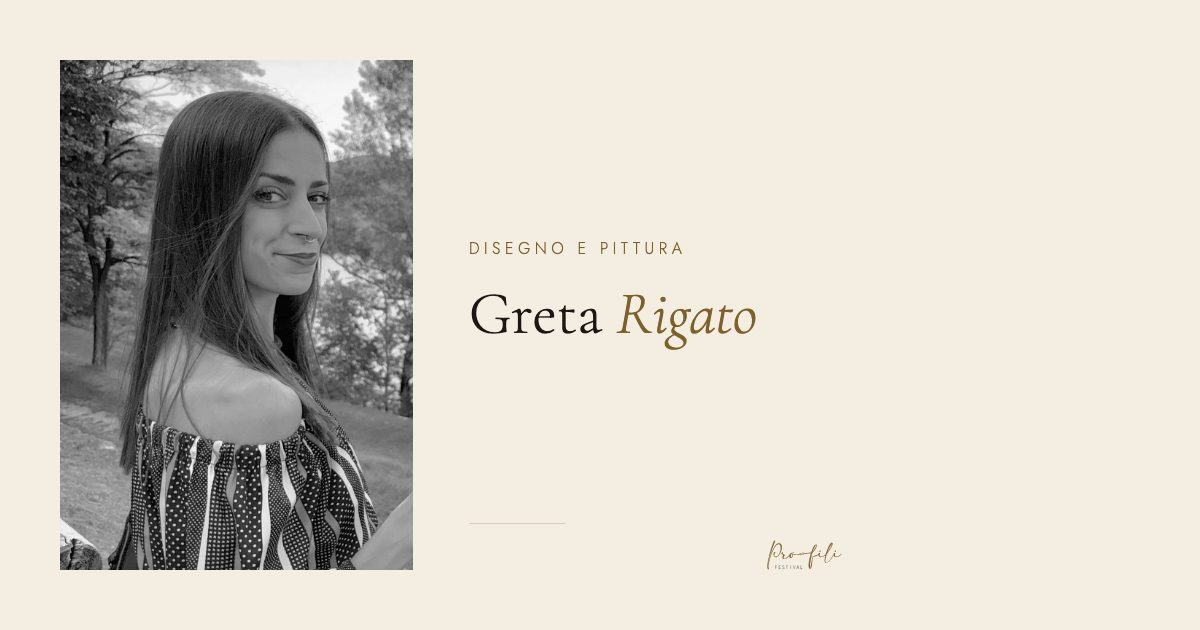
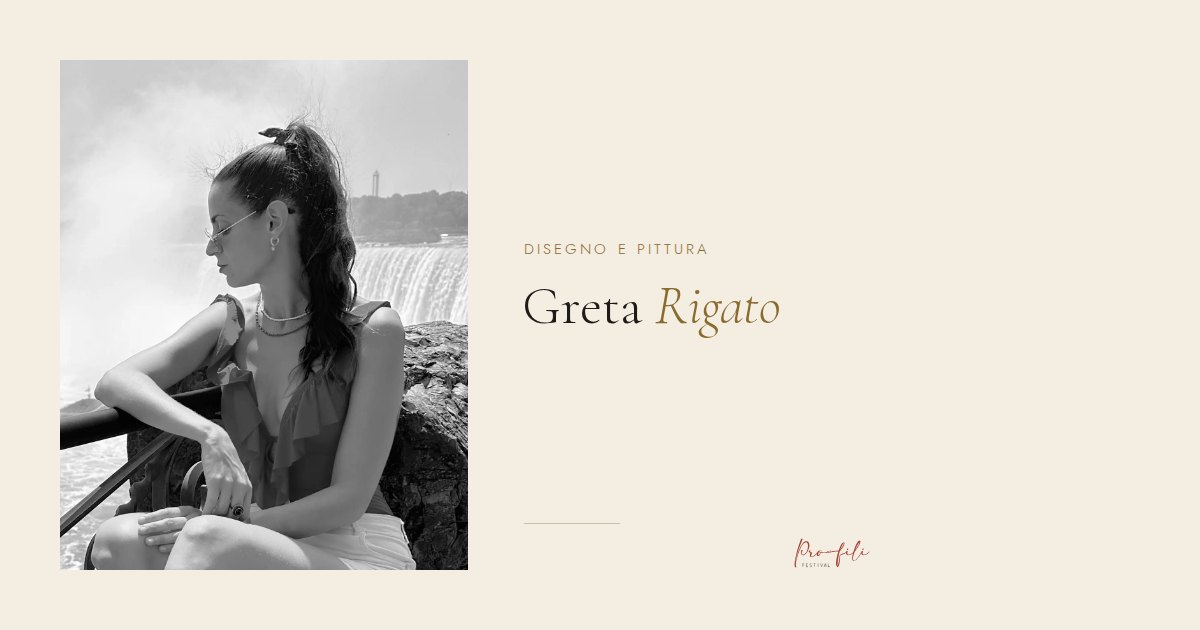
Nuova foto di Greta Rigato nella sezione PRO-FILI, ritagliata in 4:5 (#14)
Claude-Session: https://claude.ai/code/session_01K8S9kDcMmADtdHMs7poTsz

Changed region(s): [[0.0308, 0.0905, 0.6475, 0.9048], [0.6475, 0.8444, 0.7092, 0.9048]]

diff --git a/index.html b/index.html
@@ -237,7 +237,7 @@
         <p>Il corpo come racconto, tra tecnica e improvvisazione.</p>
       </figure></a>
       <a class="person rv" data-tinta="oro" href="artisti/greta-rigato.html"><figure>
-        <div class="ph" data-knot="low"><img src="assets/img/greta.webp" srcset="assets/img/greta_sm.webp 553w, assets/img/greta.webp 968w" sizes="(max-width:640px) 46vw, (max-width:1000px) 30vw, 220px" alt="Ritratto di Greta Rigato" width="968" height="1400" loading="lazy"></div>
+        <div class="ph" data-knot="low"><img src="assets/img/greta.webp" srcset="assets/img/greta_sm.webp 800w, assets/img/greta.webp 1280w" sizes="(max-width:640px) 46vw, (max-width:1000px) 30vw, 220px" alt="Ritratto di Greta Rigato" width="1280" height="1600" loading="lazy"></div>
         <h3>Greta Rigato</h3><p class="role">Disegno e pittura</p>
         <p>Disegna dal vero, tra pittura e osservazione.</p>
       </figure></a>

diff --git a/artisti/greta-rigato.html b/artisti/greta-rigato.html
@@ -69,7 +69,7 @@
 <section class="block paper" data-world="paper">
   <div class="wrap article">
     <aside class="rv">
-      <div class="ph artist-ph"><img src="../assets/img/greta.webp" srcset="../assets/img/greta_sm.webp 553w, ../assets/img/greta.webp 968w" sizes="(max-width:960px) 90vw, 300px" alt="Ritratto di Greta Rigato" width="968" height="1400"></div>
+      <div class="ph artist-ph"><img src="../assets/img/greta.webp" srcset="../assets/img/greta_sm.webp 800w, ../assets/img/greta.webp 1280w" sizes="(max-width:960px) 90vw, 300px" alt="Ritratto di Greta Rigato" width="1280" height="1600"></div>
       <p class="muted" style="margin:-16px 0 24px;font-size:12px">Foto: IANUA</p>
       <dl>
         <dt>Disciplina</dt><dd>Disegno e pittura</dd>
